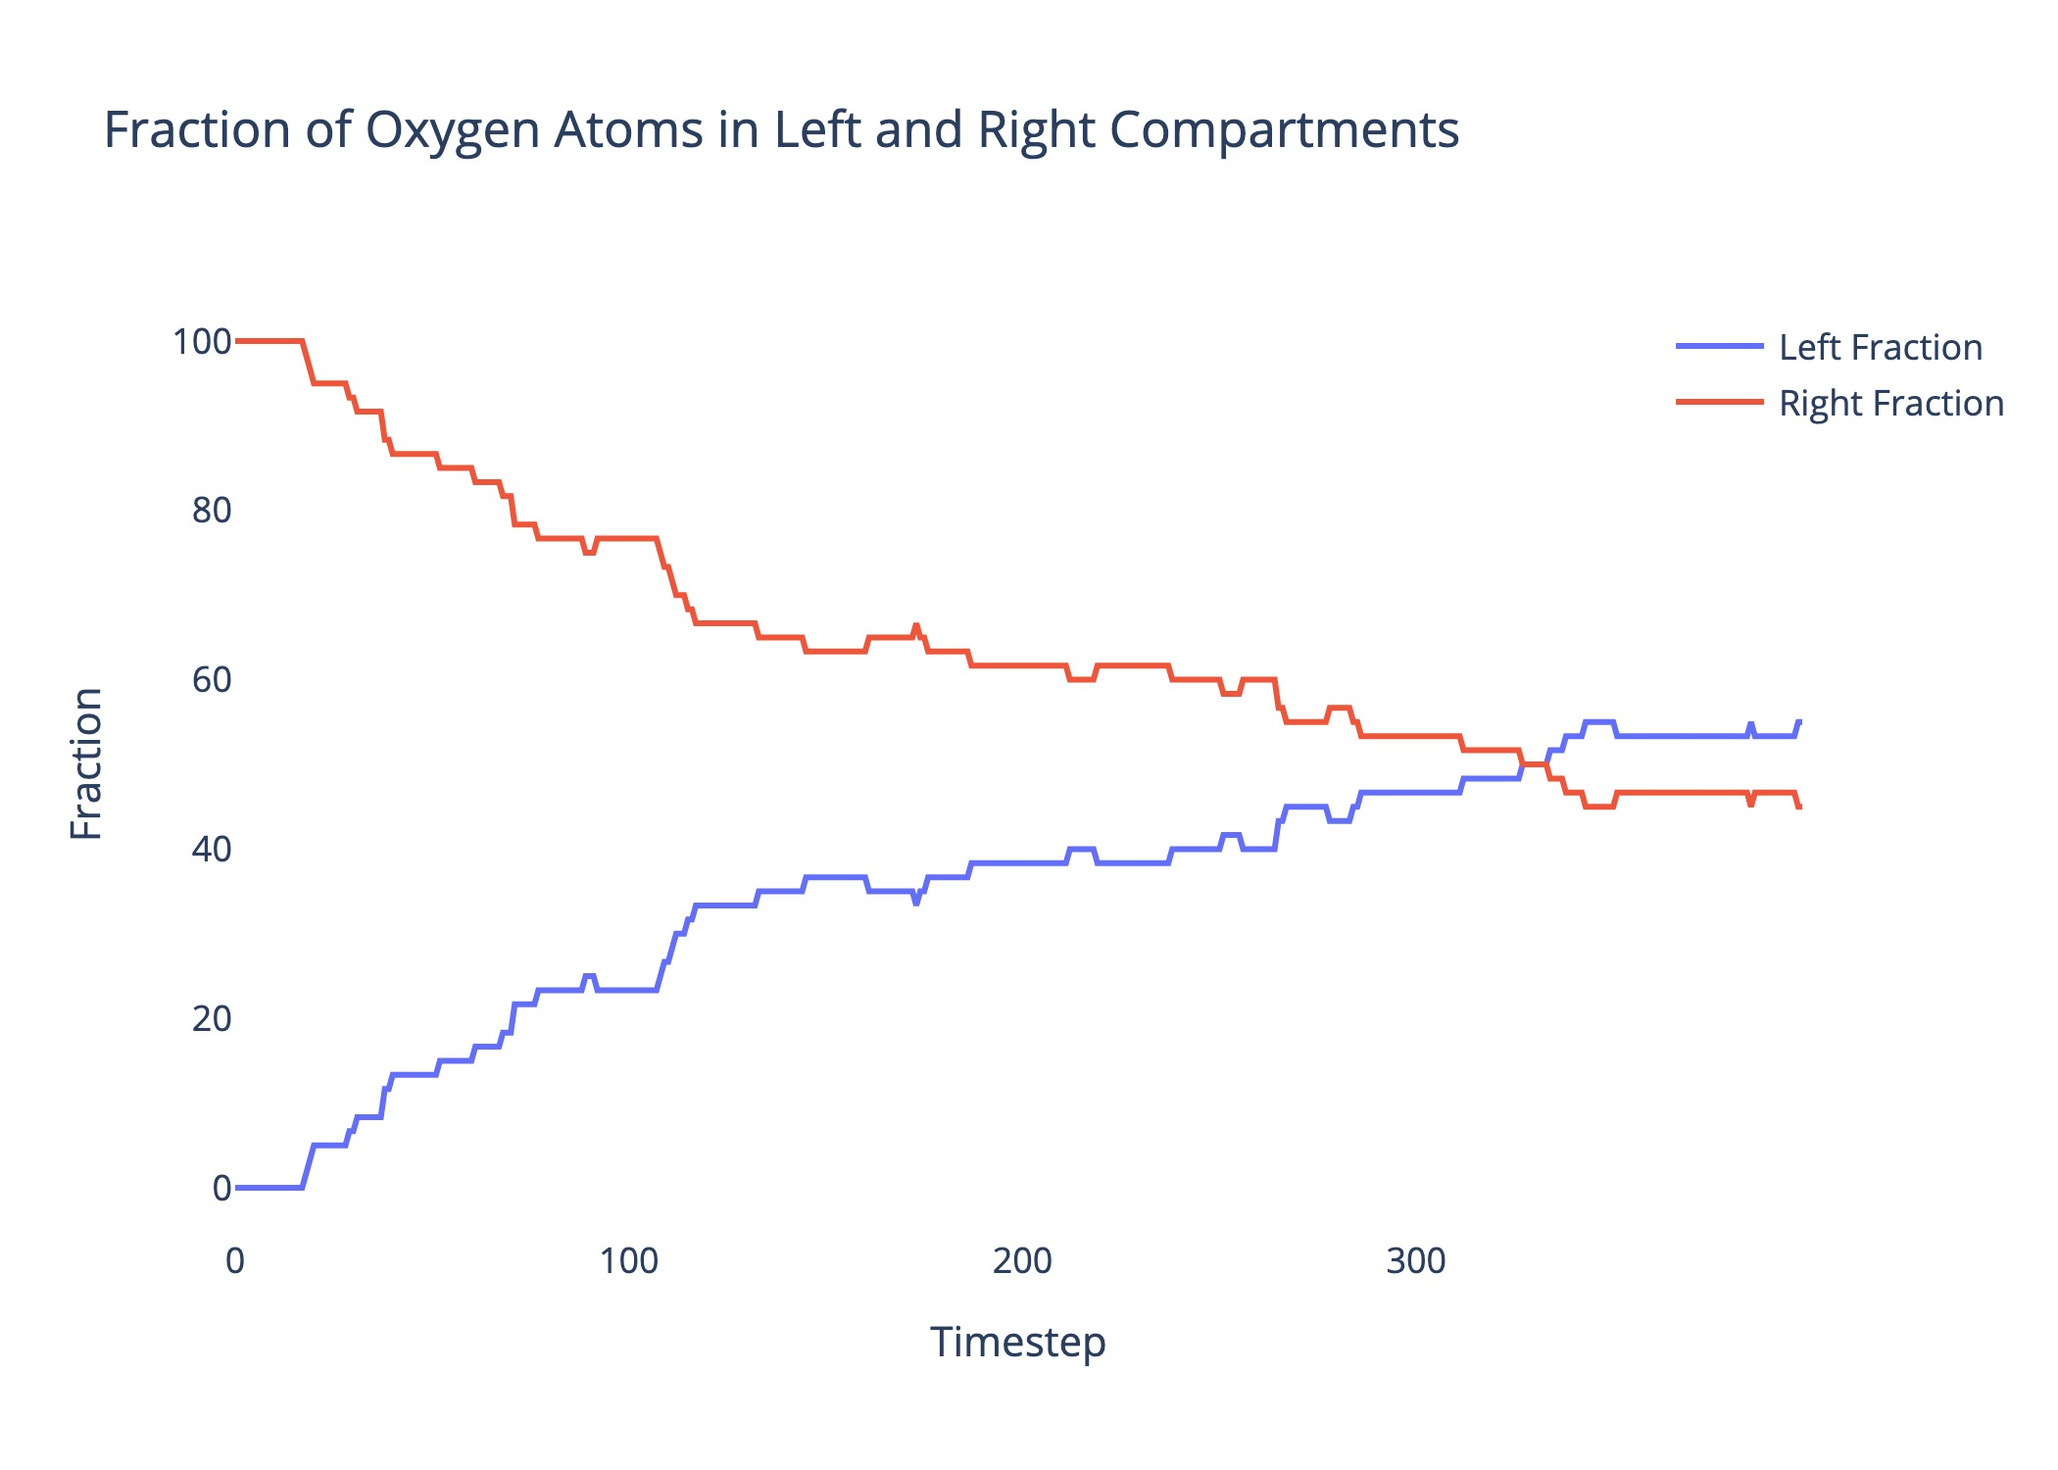
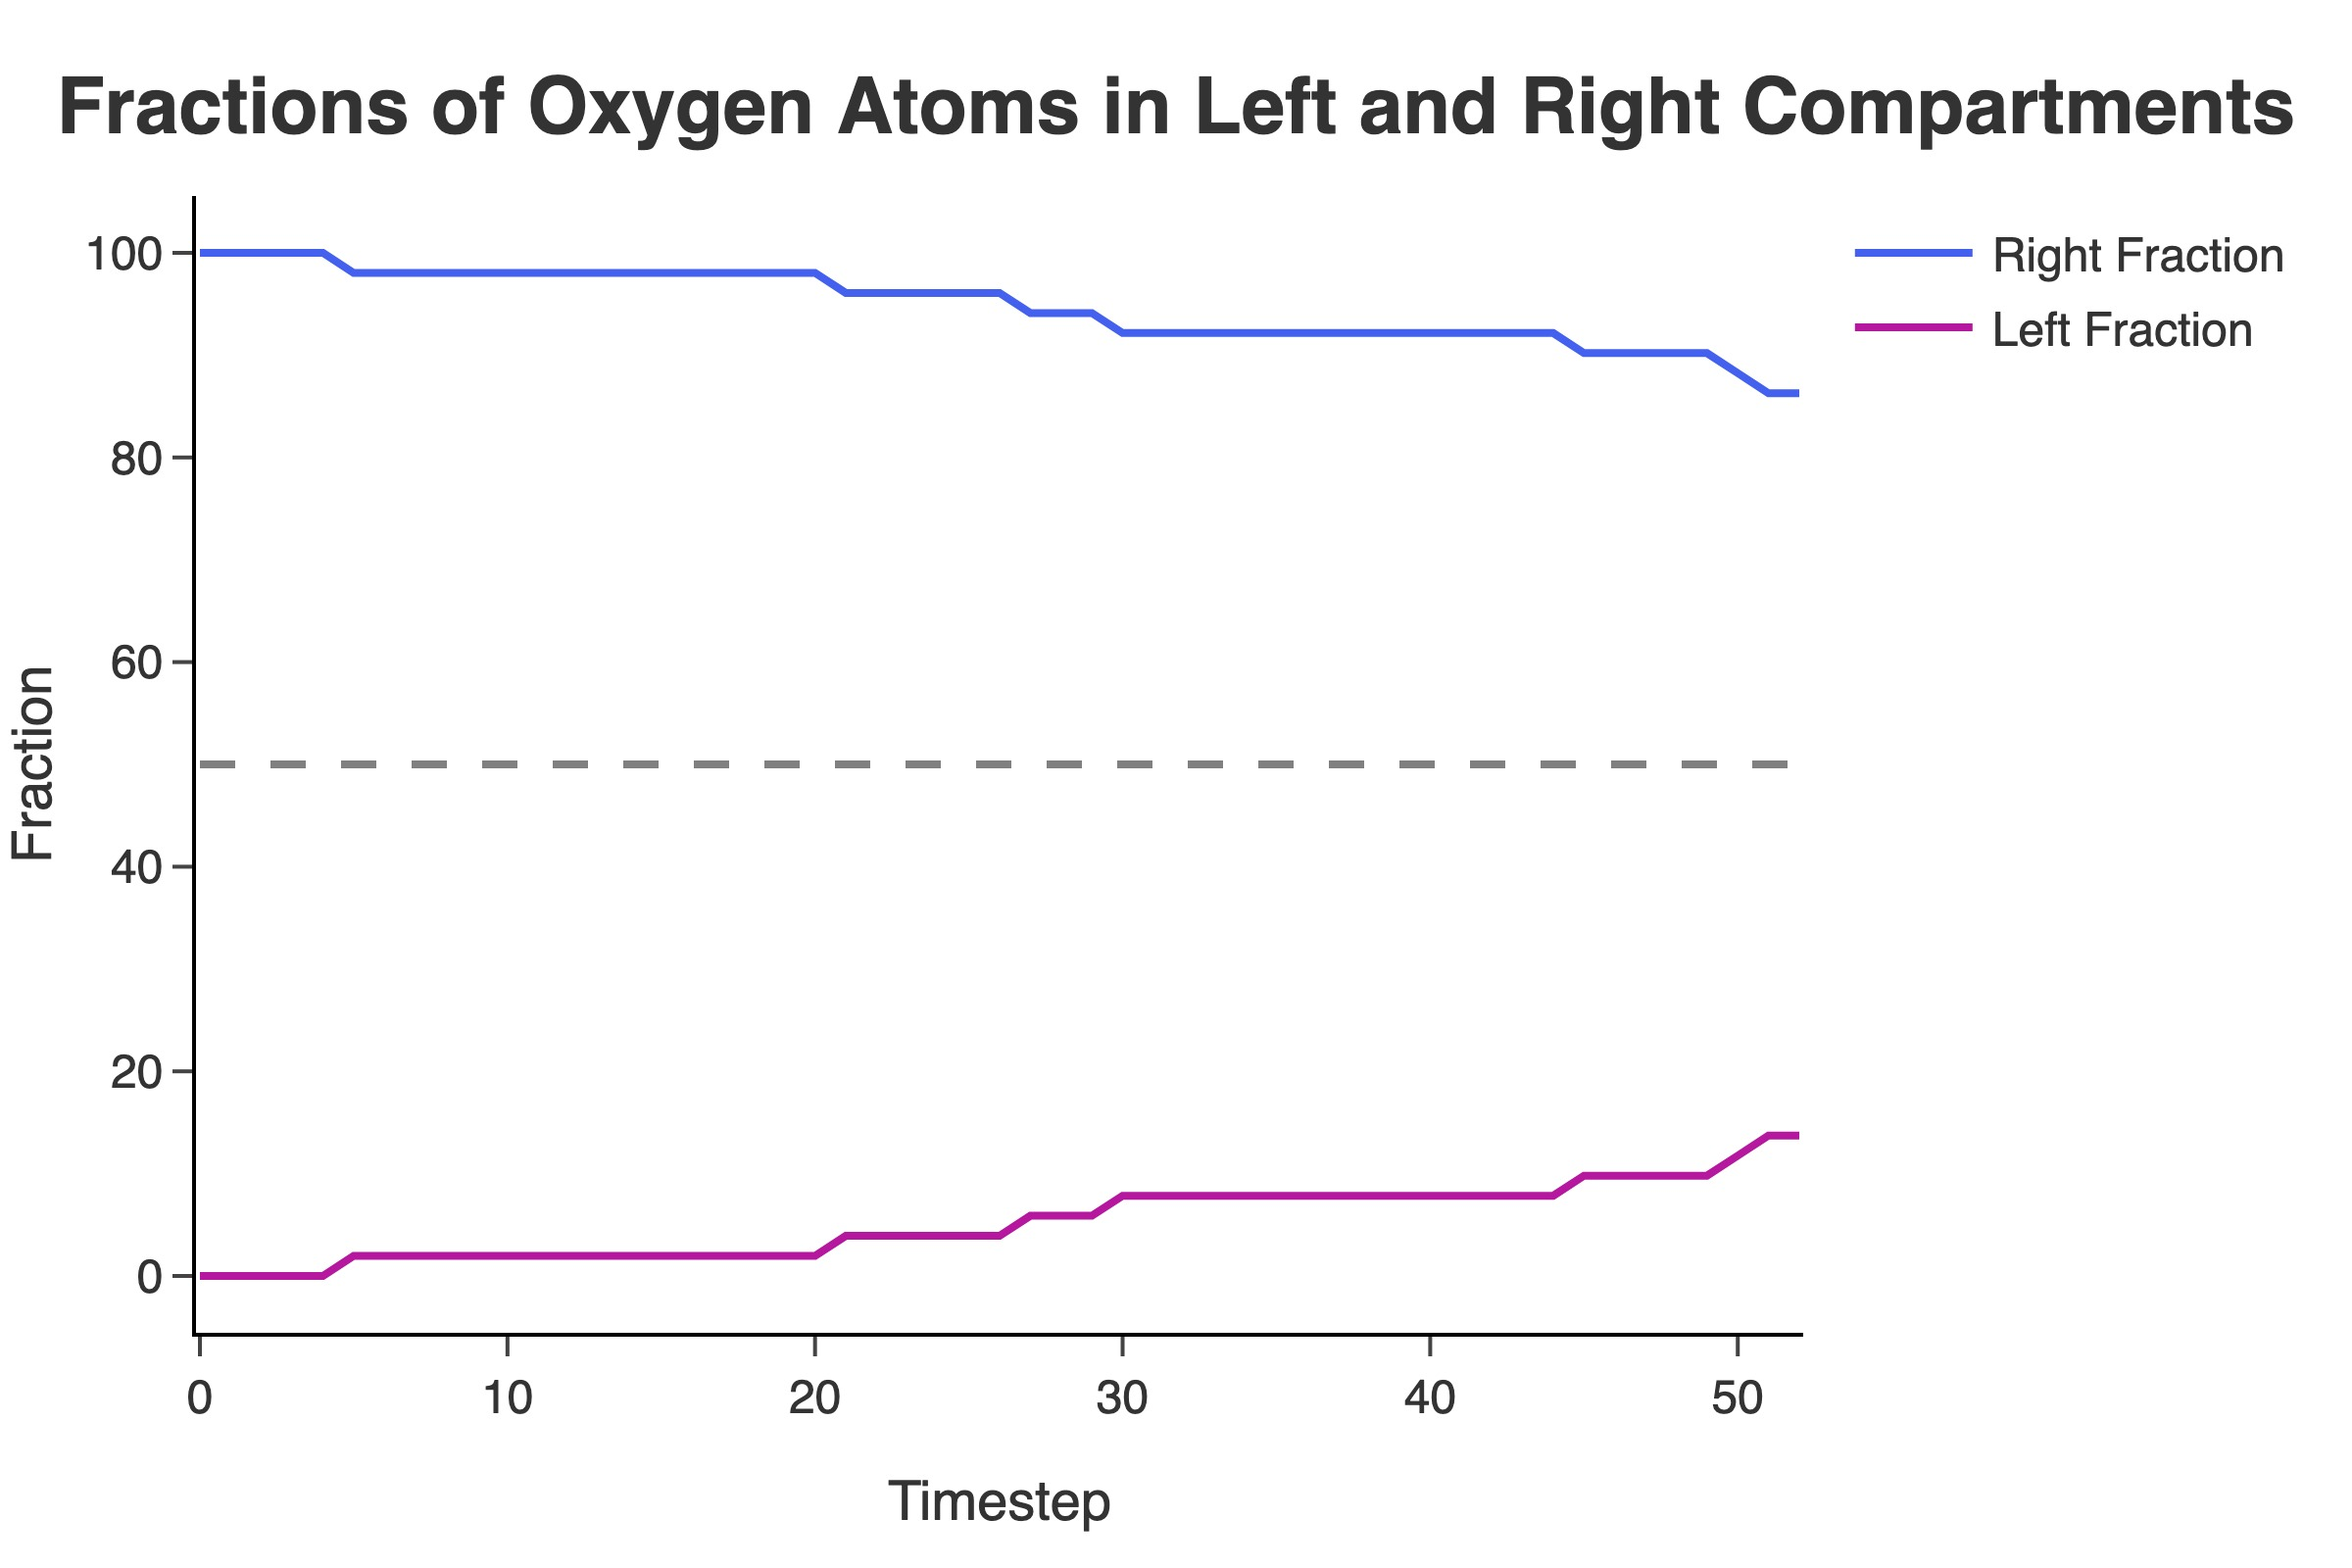
feat: equip temperature scatter plot

diff --git a/make_figures.py b/make_figures.py
@@ -1,44 +1,71 @@
 import plotly.graph_objects as go
 from plotly.subplots import make_subplots
 import os
+from graph import Graph
+import constants
 
 class FigureMaker:
     def __init__(self):
         pass
 
-    def _style_figure(self, figure):
-        figure.update_layout(legend=dict(yanchor="top", xanchor="left", x=0.91, y=0.99), plot_bgcolor="white", paper_bgcolor="white")
-
-    def _save_figure(self, figure, fname, html=False, jpg=False):
-        if html:
-            figure.write_html(os.path.join(os.getcwd(), "figures", "html", f"{fname}.html"), include_plotlyjs="cdn")
-        if jpg:
-            figure.write_image(os.path.join(os.getcwd(), "figures", "jpg", f"{fname}.jpg"), scale=3.0)
-
-
     def create_fractions_scatter_plot(self, left_fractions, right_fractions):
         fig = go.Figure()
-        fig.add_trace(
-            go.Scatter(
-                x=list(range(len(left_fractions))),
-                y=left_fractions,
-                mode="lines",
-                name="Left Fraction",
-            )
-        )
+        graph = Graph()
         fig.add_trace(
             go.Scatter(
                 x=list(range(len(right_fractions))),
                 y=right_fractions,
                 mode="lines",
                 name="Right Fraction",
+                line_color="#4361ee"
             )
         )
-        fig.update_layout(
-            title="Fraction of Oxygen Atoms in Left and Right Compartments",
+        fig.add_trace(
+            go.Scatter(
+                x=list(range(len(left_fractions))),
+                y=left_fractions,
+                mode="lines",
+                name="Left Fraction",
+                line_color="#b5179e"
+            )
+        )
+        fig.add_shape(
+            go.layout.Shape(
+                type="line",
+                x0=0,
+                x1=len(left_fractions) - 1,  # Assuming left_fractions and right_fractions are of the same length
+                y0=50,
+                y1=50,
+                line=dict(color="Grey", width=2, dash="dash")
+            )
+        )
+        graph.update_parameters(dict(
+            title="<b>Fractions of Oxygen Atoms in Left and Right Compartments</b>",
             xaxis_title="Timestep",
             yaxis_title="Fraction",
-        )
-        self._style_figure(fig)
-        self._save_figure(fig, "compartment_fractions", html=True, jpg=True)
+        ))
+        graph.style_figure(fig)
+        graph.save_figure(figure=fig, path=os.path.join(os.getcwd(), "figures"), fname="compartment_fractions", html=True, jpg=True, scale=4.0)
 
+
+    def create_equipartition_scatter_plot(self, element_to_temp):
+        fig = go.Figure()
+        graph = Graph()
+        elemToColor = {"C": "#2b2d42", "O": "#ef233c"}
+        for element, temp in element_to_temp.items():
+            fig.add_trace(
+                go.Scatter(
+                    x=list(range(len(temp))),
+                    y=temp,
+                    mode="lines",
+                    name=f"{element} Temperature",
+                    line_color=elemToColor[element]
+                )
+            )
+        graph.update_parameters(dict(
+            title="<b>Equipartition Temperature</b>",
+            xaxis_title="Timestep",
+            yaxis_title="Temperature (K)",
+        ))
+        graph.style_figure(fig)
+        graph.save_figure(figure=fig, path=os.path.join(os.getcwd(), "figures"), fname="equipartition_temperature", html=True, jpg=True, scale=4.0)

diff --git a/game.py b/game.py
@@ -1,6 +1,6 @@
 import numpy as np
 import constants
-from graph import Graph
+from make_figures import FigureMaker
 
 class Particle:
     def __init__(self, x: float, y: float, element: str, mass:float):
@@ -138,7 +138,7 @@ class Game:
         for particle in self.particles:
             elementToSum.setdefault(particle.element, []).append(particle.vx**2 + particle.vy**2)
         for element, sums in elementToSum.items():
-            self.elementToT["equipartition"].setdefault(element, []).append(1/(3 * constants.BOLTZMANN) * (particle.mass/(1000 * constants.AVOGADRO)) * np.mean(sums))
+            self.elementToT["equipartition"].setdefault(element, []).append(constants.TEMP_CONVERSION_FACTOR * 1/(3 * constants.BOLTZMANN) * (particle.mass/(1000 * constants.AVOGADRO)) * np.mean(sums))
 
     def update(self):
         self.time += 1
@@ -166,10 +166,10 @@ class Game:
             "y_velocities_bin_ranges": self.y_velocities_bin_ranges,
         }
         for element, t in self.elementToT["equipartition"].items():
-            data[f"{element.lower()}_equipartition_temperature"] = "{:.2f}".format(np.round(t[-1] * constants.TEMP_CONVERSION_FACTOR, 2))
+            data[f"{element.lower()}_equipartition_temperature"] = "{:.2f}".format(np.round(t[-1], 2))
         return data
 
     def analyze_game(self):
-        graph = Graph()
-        graph.create_fractions_scatter_plot(self.left_fractions, self.right_fractions)
-        
+        figs = FigureMaker()
+        figs.create_fractions_scatter_plot(self.left_fractions, self.right_fractions)
+        figs.create_equipartition_scatter_plot(self.elementToT["equipartition"])
